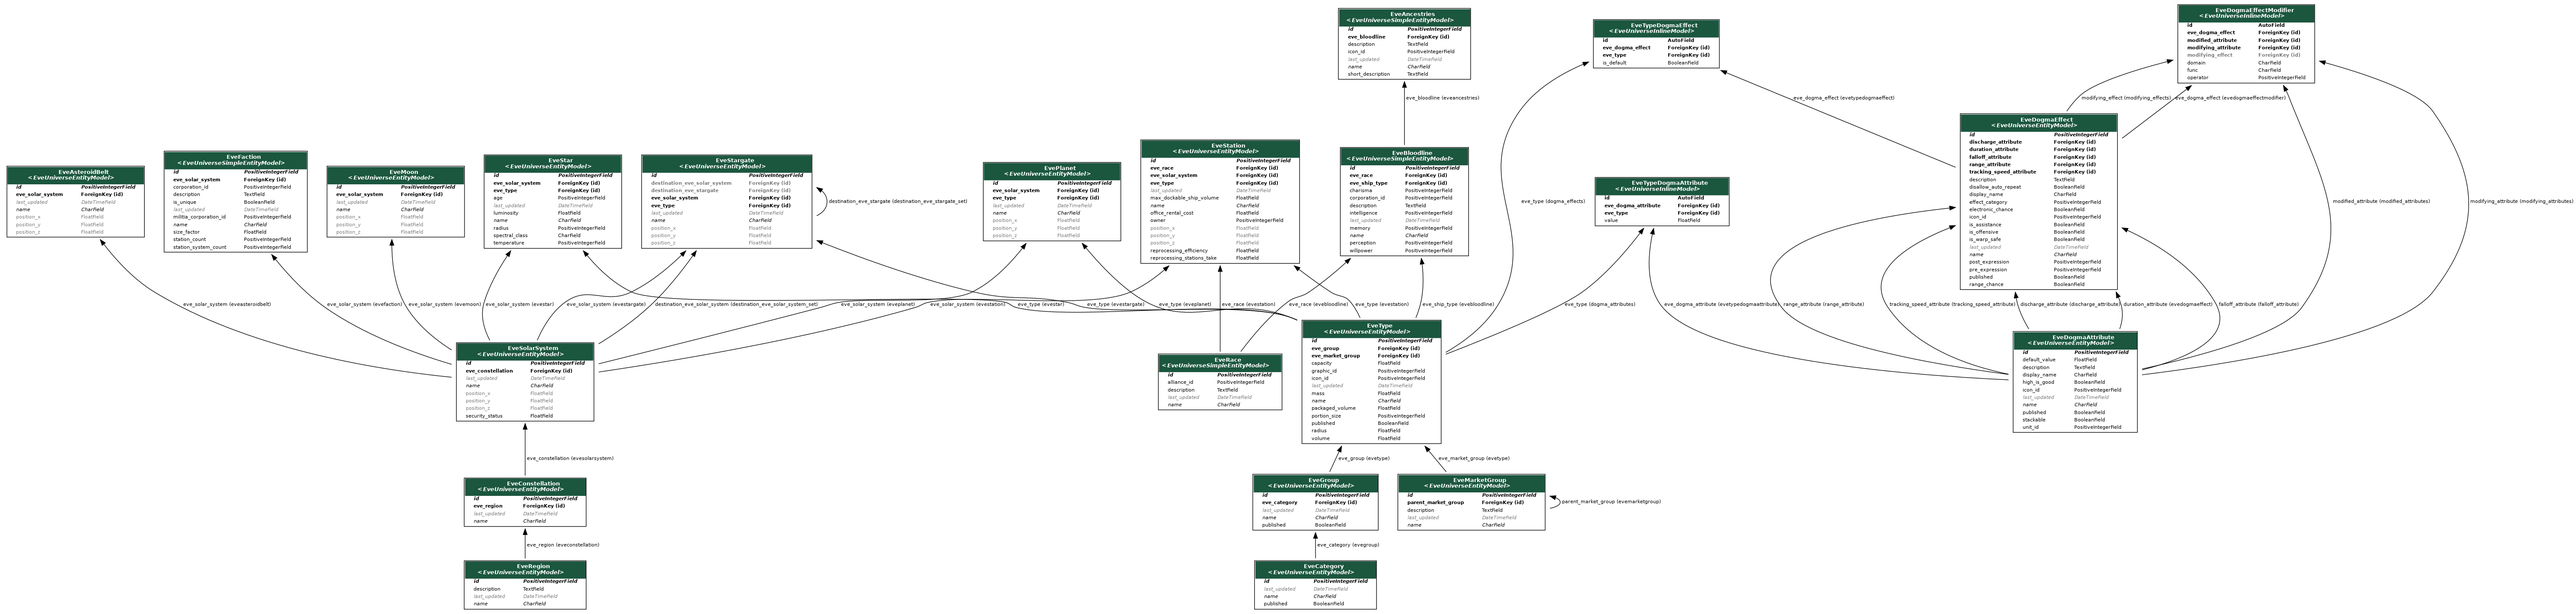
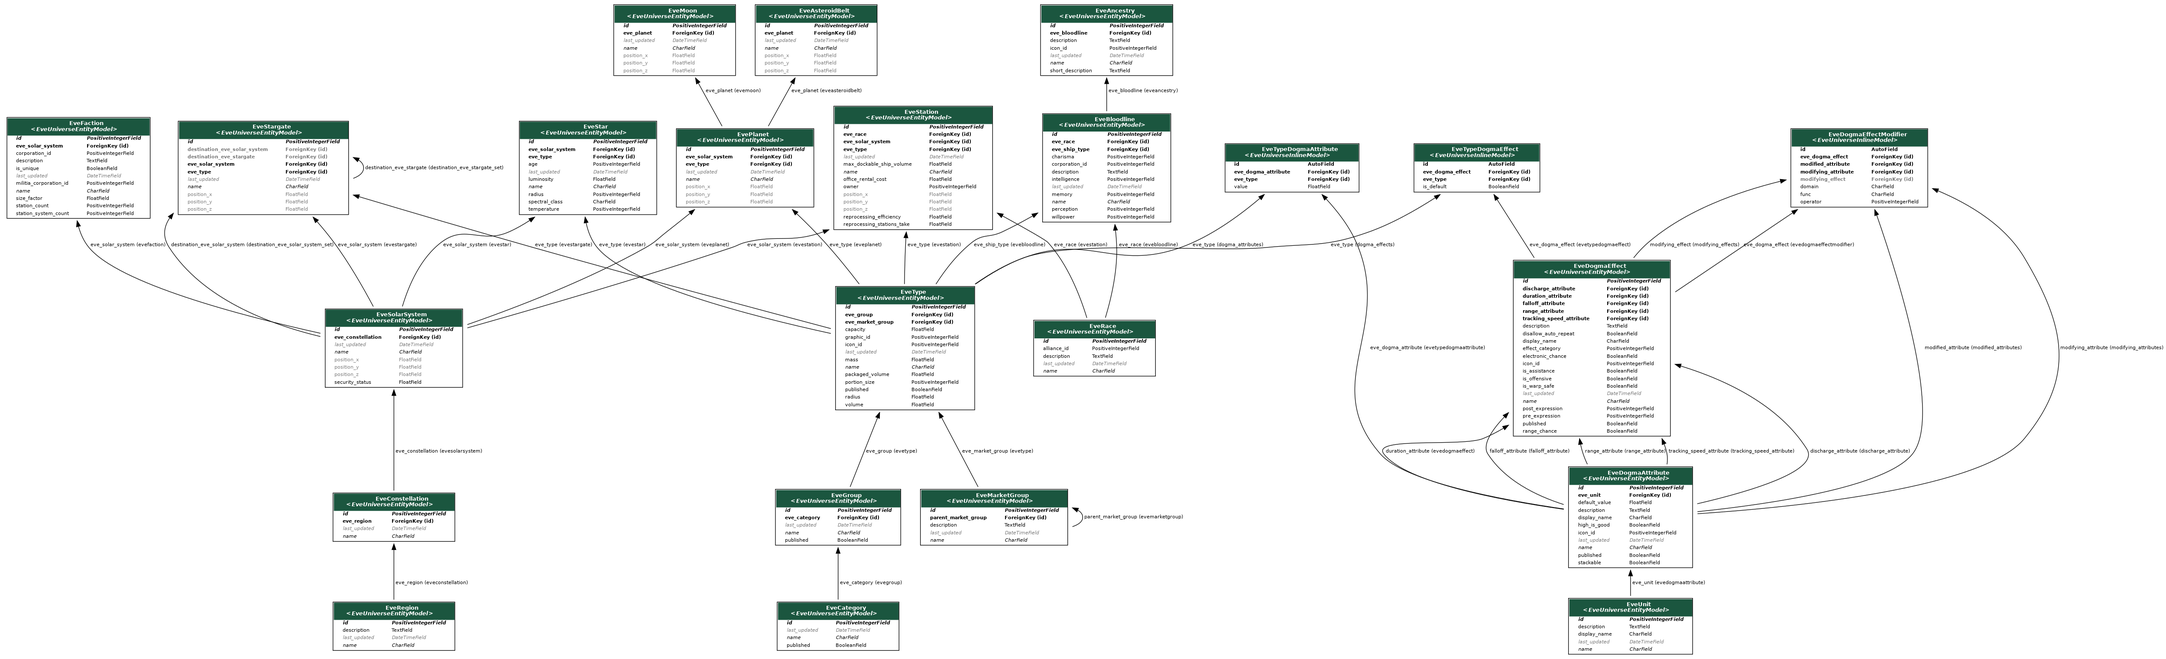
Fix planet relations

diff --git a/eveuniverse/migrations/0001_initial.py b/eveuniverse/migrations/0001_initial.py
@@ -1,4 +1,4 @@
-# Generated by Django 2.2.13 on 2020-06-23 14:09
+# Generated by Django 2.2.13 on 2020-06-23 19:44
 
 from django.db import migrations, models
 import django.db.models.deletion
@@ -285,7 +285,7 @@ class Migration(migrations.Migration):
                 ('position_x', models.FloatField(blank=True, default=None, help_text='x position in the solar system', null=True)),
                 ('position_y', models.FloatField(blank=True, default=None, help_text='y position in the solar system', null=True)),
                 ('position_z', models.FloatField(blank=True, default=None, help_text='z position in the solar system', null=True)),
-                ('eve_solar_system', models.ForeignKey(on_delete=django.db.models.deletion.CASCADE, to='eveuniverse.EveSolarSystem')),
+                ('eve_planet', models.ForeignKey(on_delete=django.db.models.deletion.CASCADE, to='eveuniverse.EvePlanet')),
             ],
             options={
                 'abstract': False,
@@ -362,7 +362,7 @@ class Migration(migrations.Migration):
                 ('position_x', models.FloatField(blank=True, default=None, help_text='x position in the solar system', null=True)),
                 ('position_y', models.FloatField(blank=True, default=None, help_text='y position in the solar system', null=True)),
                 ('position_z', models.FloatField(blank=True, default=None, help_text='z position in the solar system', null=True)),
-                ('eve_solar_system', models.ForeignKey(on_delete=django.db.models.deletion.CASCADE, to='eveuniverse.EveSolarSystem')),
+                ('eve_planet', models.ForeignKey(on_delete=django.db.models.deletion.CASCADE, to='eveuniverse.EvePlanet')),
             ],
             options={
                 'abstract': False,

diff --git a/eveuniverse/models.py b/eveuniverse/models.py
@@ -224,13 +224,12 @@ class EveAsteroidBelt(EveUniverseEntityModel):
     position_z = models.FloatField(
         null=True, default=None, blank=True, help_text="z position in the solar system"
     )
-    eve_solar_system = models.ForeignKey("EveSolarSystem", on_delete=models.CASCADE)
+    eve_planet = models.ForeignKey("EvePlanet", on_delete=models.CASCADE)
 
     class EveUniverseMeta:
         esi_pk = "asteroid_belt_id"
         esi_path = "Universe.get_universe_asteroid_belts_asteroid_belt_id"
         field_mappings = {
-            "eve_solar_system": "system_id",
             "position_x": ("position", "x"),
             "position_y": ("position", "y"),
             "position_z": ("position", "z"),
@@ -484,7 +483,7 @@ class EveMoon(EveUniverseEntityModel):
     position_z = models.FloatField(
         null=True, default=None, blank=True, help_text="z position in the solar system"
     )
-    eve_solar_system = models.ForeignKey("EveSolarSystem", on_delete=models.CASCADE)
+    eve_planet = models.ForeignKey("EvePLanet", on_delete=models.CASCADE)
 
     class EveUniverseMeta:
         esi_pk = "moon_id"
